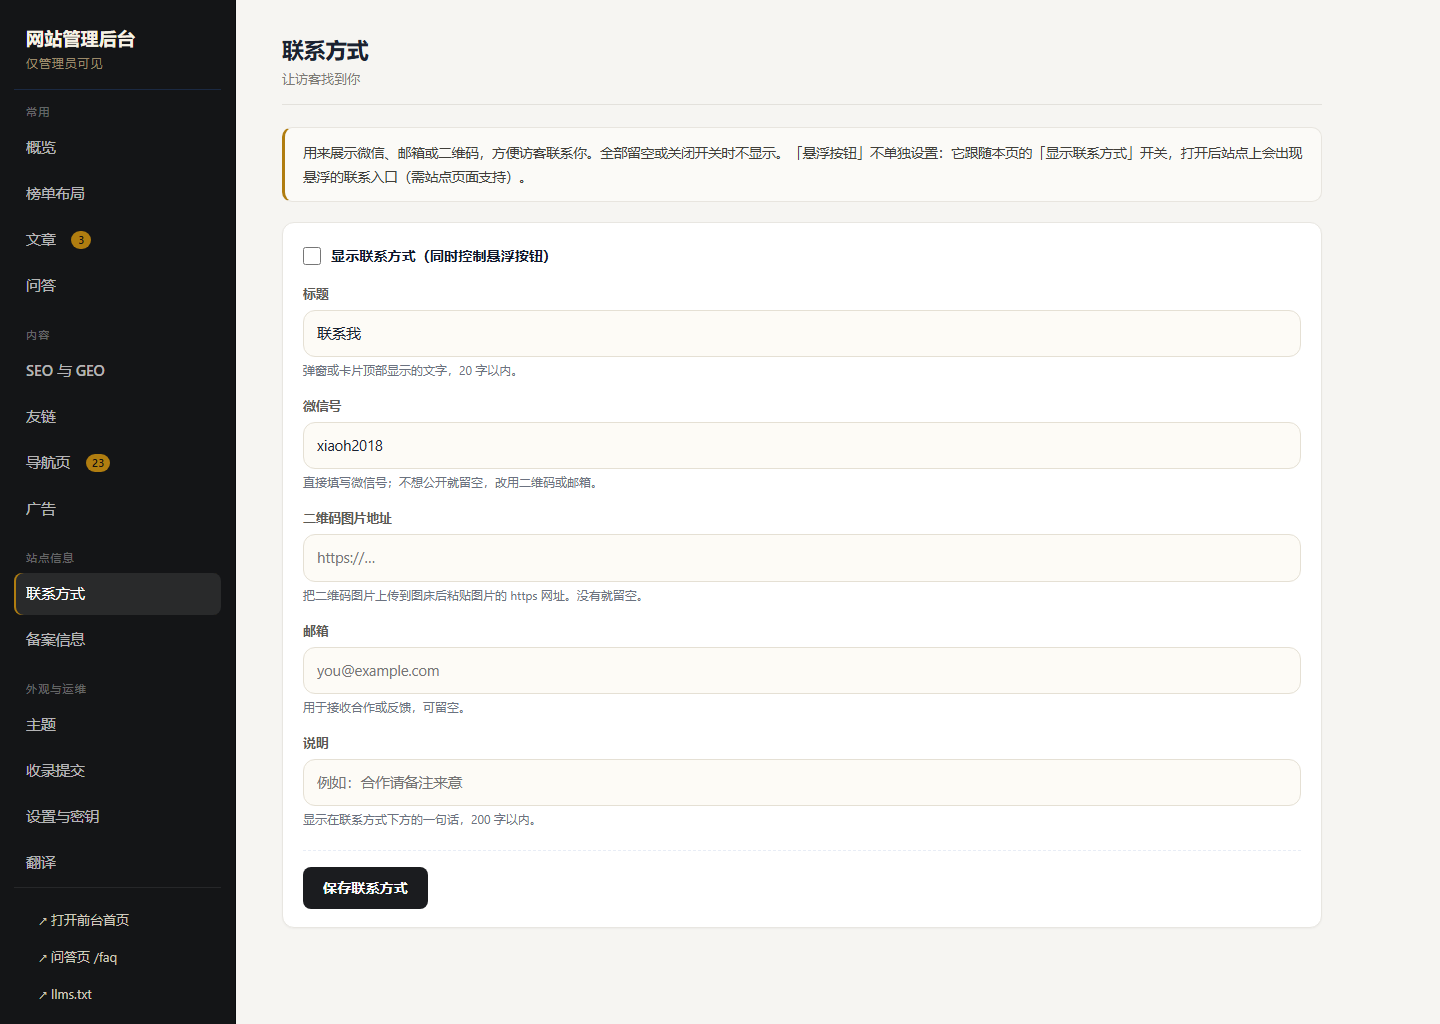
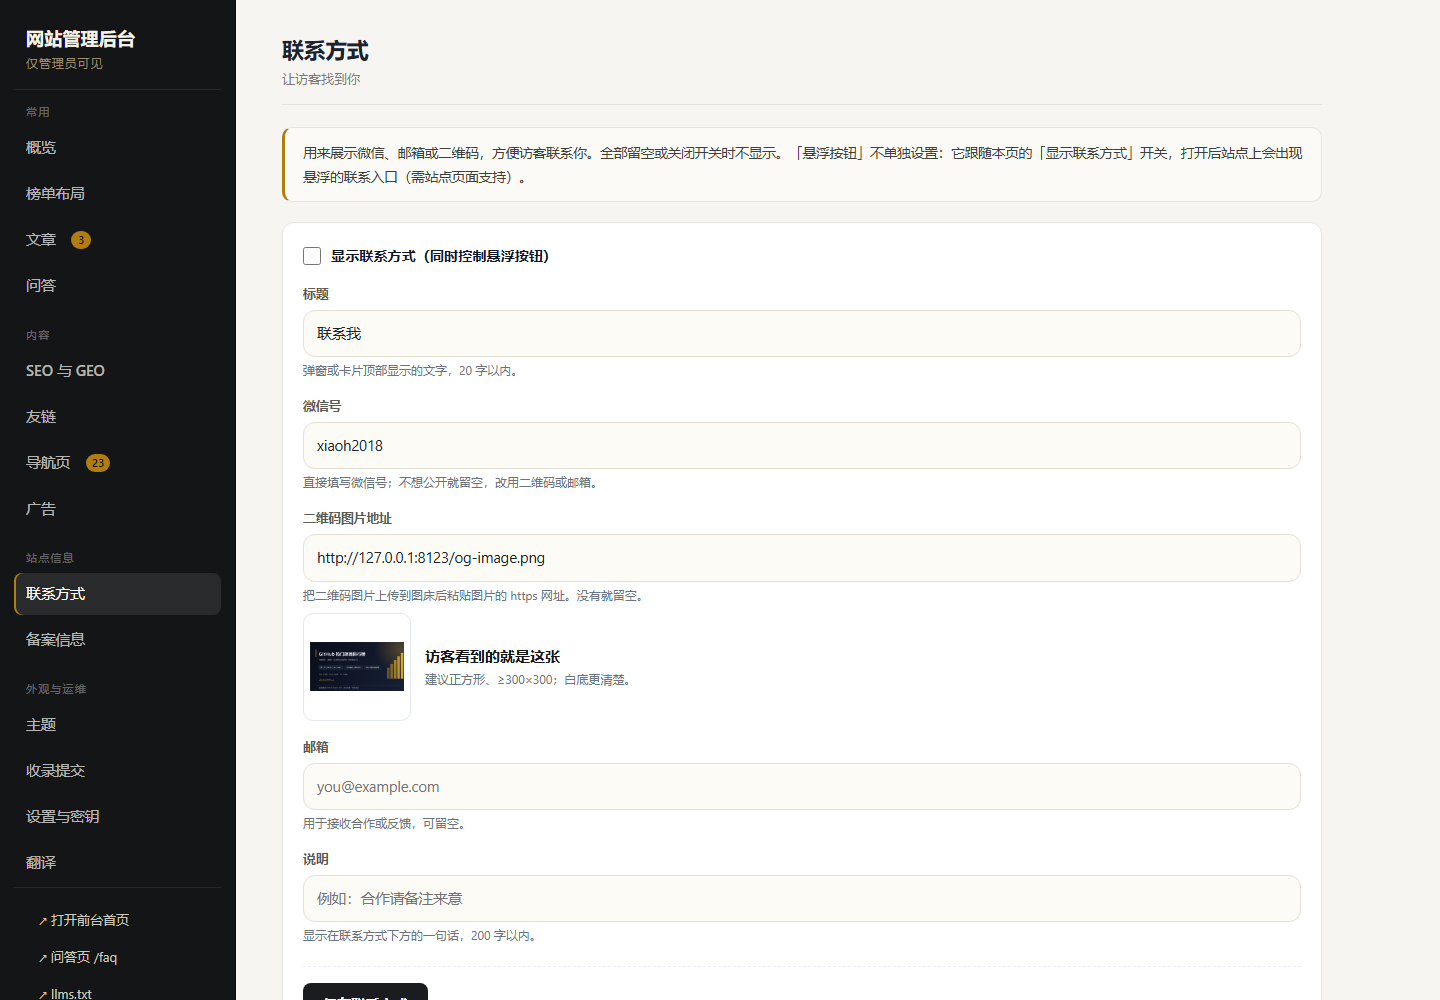
feat: 联系方式二维码预览 + 线上冒烟扩到 37 项；v89

diff --git a/worker.js b/worker.js
@@ -1431,7 +1431,7 @@ async function injectFaqLd(env, html) {
 
 // 静态资源版本：HTML 里的 /js/*.js 都会被加上 ?v=<这里>，于是能给浏览器一年 immutable；
 // 改了前端就把它 +1（不然用户浏览器会抱着一周的旧 bundle，界面上去点了没反应）
-const ASSET_V = 'v88';
+const ASSET_V = 'v89';
 
 function emptyNav() {
   return { updatedAt: '', groups: [] };
@@ -3155,6 +3155,8 @@ th{color:var(--muted);font-weight:600;font-size:13px}
   .ad-acts-t{font-size:12px;color:var(--muted)}
   .ad-prev-wrap{padding:18px 22px 24px;overflow:auto}
   .ad-prev-wrap .card{margin:0}
+    .qrprev{display:flex;gap:14px;align-items:center;margin:8px 0 12px}
+  .qrprev img{width:108px;height:108px;object-fit:contain;border:1px solid var(--line);border-radius:10px;background:#fff;padding:6px}
   .tr-out{display:grid;gap:10px;margin-top:14px}
 .tr-box{border:1px solid var(--line);border-radius:10px;padding:12px 14px;font-size:14px;background:#f8fafc}
 .tr-box h4{margin:0 0 6px;font-size:12px;color:var(--muted);font-weight:600}
@@ -3721,6 +3723,10 @@ tr:hover td{background:#fcfbf8}
         <label for="contact-qrUrl">二维码图片地址</label>
         <input type="url" id="contact-qrUrl" maxlength="300" placeholder="https://…">
         <div class="hint">把二维码图片上传到图床后粘贴图片的 https 网址。没有就留空。</div>
+        <div class="qrprev" id="contactQrPrev" hidden>
+          <img id="contactQrImg" alt="二维码预览">
+          <div><b>访客看到的就是这张</b><div class="hint" style="margin:2px 0 0">建议正方形、≥300×300；白底更清楚。</div></div>
+        </div>
         <label for="contact-email">邮箱</label>
         <input type="text" id="contact-email" maxlength="120" placeholder="you@example.com">
         <div class="hint">用于接收合作或反馈，可留空。</div>
@@ -4558,6 +4564,22 @@ tr:hover td{background:#fcfbf8}
     }
   })();
 
+  function paintQr() {
+    var box = $('contactQrPrev'), img = $('contactQrImg'), input = $('contact-qrUrl');
+    if (!box || !img || !input) return;
+    var v = String(input.value || '').trim();
+    if (v.indexOf('http://') === 0 || v.indexOf('https://') === 0) {
+      img.src = v;
+      box.hidden = false;
+    } else {
+      img.removeAttribute('src');
+      box.hidden = true;
+    }
+  }
+  (function () {
+    var input = $('contact-qrUrl');
+    if (input) input.addEventListener('input', paintQr);
+  })();
   function paintSerp() {
     var tEl = $('seo-title'), dEl = $('seo-description'), uEl = $('seo-siteUrl'), nEl = $('seo-siteName');
     if (!tEl || !dEl) return;
@@ -4592,6 +4614,7 @@ tr:hover td{background:#fcfbf8}
       if (!r.ok) { toast(r.error || '读取站点配置失败', false); return; }
       fillSite(r.site);
       paintSerp();
+      paintQr();
     });
   }
   function collect(sec) {

diff --git a/sw.js b/sw.js
@@ -1,5 +1,5 @@
 /* Service Worker：缓存页面外壳（HTML/JS/图标），让离线也能打开；GitHub API 不缓存，由页面自己的 localStorage 管理 */
-const CACHE = 'ghrank-shell-v88';
+const CACHE = 'ghrank-shell-v89';
 const SHELL = ['./', 'index.html', 'js/bundle.js', 'js/md.js', 'manifest.json', 'icon.svg'];
 // 只预缓存 meta（约 2KB）。榜单数据按 range 分文件、由页面按需加载，不再在安装时白下几�?KB
 const DATA = 'data/repos-meta.js';

diff --git a/docs/优化建议.md b/docs/优化建议.md
@@ -946,3 +946,26 @@ CDP 登录后台，逐个点开 13 个面板（overview/layout/articles/nav/qa/s
 ### 坑
 - `display:flex` 不能直接加在 `<td>` 上（会破坏 table layout），要包一层 `<div>` 或者用 `display:table-cell` + `inline-block` 子元素。
 - 审计脚本自己也会误报，先看证据再改代码，别为了「全绿」改坏真实布局。
+
+## 59. 第 34 轮：联系方式二维码预览 + 线上冒烟扩到 37 项
+
+### 做了什么
+- 后台「联系方式」填了「二维码图片地址」后，**输入框下方立刻出现缩略预览**（108×108、白底圆角）+ 一句「访客看到的就是这张 / 建议正方形 ≥300×300」。
+  * 只认 `http://` / `https://`，其它内容（比如误粘 `weixin://`）直接不显示，不会留一个破图框。
+  * 保存后 `loadSite()` 读完配置会主动重绘一次，刷新后台也能立刻看到。
+- `scripts/check-live.mjs` 从 26 项扩到 **37 项**，新增：
+  * `/data/repos-total.js` 存在且含 `__GHRANK_RANGES__`/`total`；
+  * `/data/repos-meta.js?v=` 响应头必须是 `immutable`（版本化长缓存没被改坏）；
+  * `/articles` 有 `artgrid` 卡片布局、含封面支持（`acover`/`a.cover`）；
+  * `/faq` 有分类计数（`counts[t]`）与折叠标记（`summary:after`、`content:"+"`）；
+  * `/api/health` 返回带版本号的 JSON；
+  * 后台三处预览都在：`serpTitle`（SEO 结果预览）、`data-adprev`+`adPrevDlg`（广告预览）、`contactQrPrev`+`contactQrImg`（二维码预览）。
+
+### 验证
+- CDP 实测：填入 `http://127.0.0.1:8123/og-image.png` 后 `contactQrPrev.hidden === false`、`contactQrImg.src` 正确；截图 `docs/shots/admin-contact.png`（1440×1000）。
+- 门禁：`node --check`（worker/sw/bundle/md/check-live）、`check-admin-script`、`check-admin-refs`、`check-admin-panes`（12 面板 + 390px）、`check-pane-wiring`、`check-worker`（74 回源 / 100 API）、`audit-admin`（13 面板全 ok）全过。
+- `ASSET_V`、`CACHE` 升到 v89；部署后 `check-live` 期望 **ALL OK (37)**。
+
+### 坑
+- 预览图不要用 `img.onerror` 隐藏父容器以外的东西（会连提示一起闪），这里只切 `hidden`；输入框清空时 `removeAttribute('src')`，避免留着旧图。
+- 线上冒烟里判断「问答折叠标记」要匹配源码里的 `content:"+"`，而不是渲染后的 `+`——后者在任何页面都能误命中。
